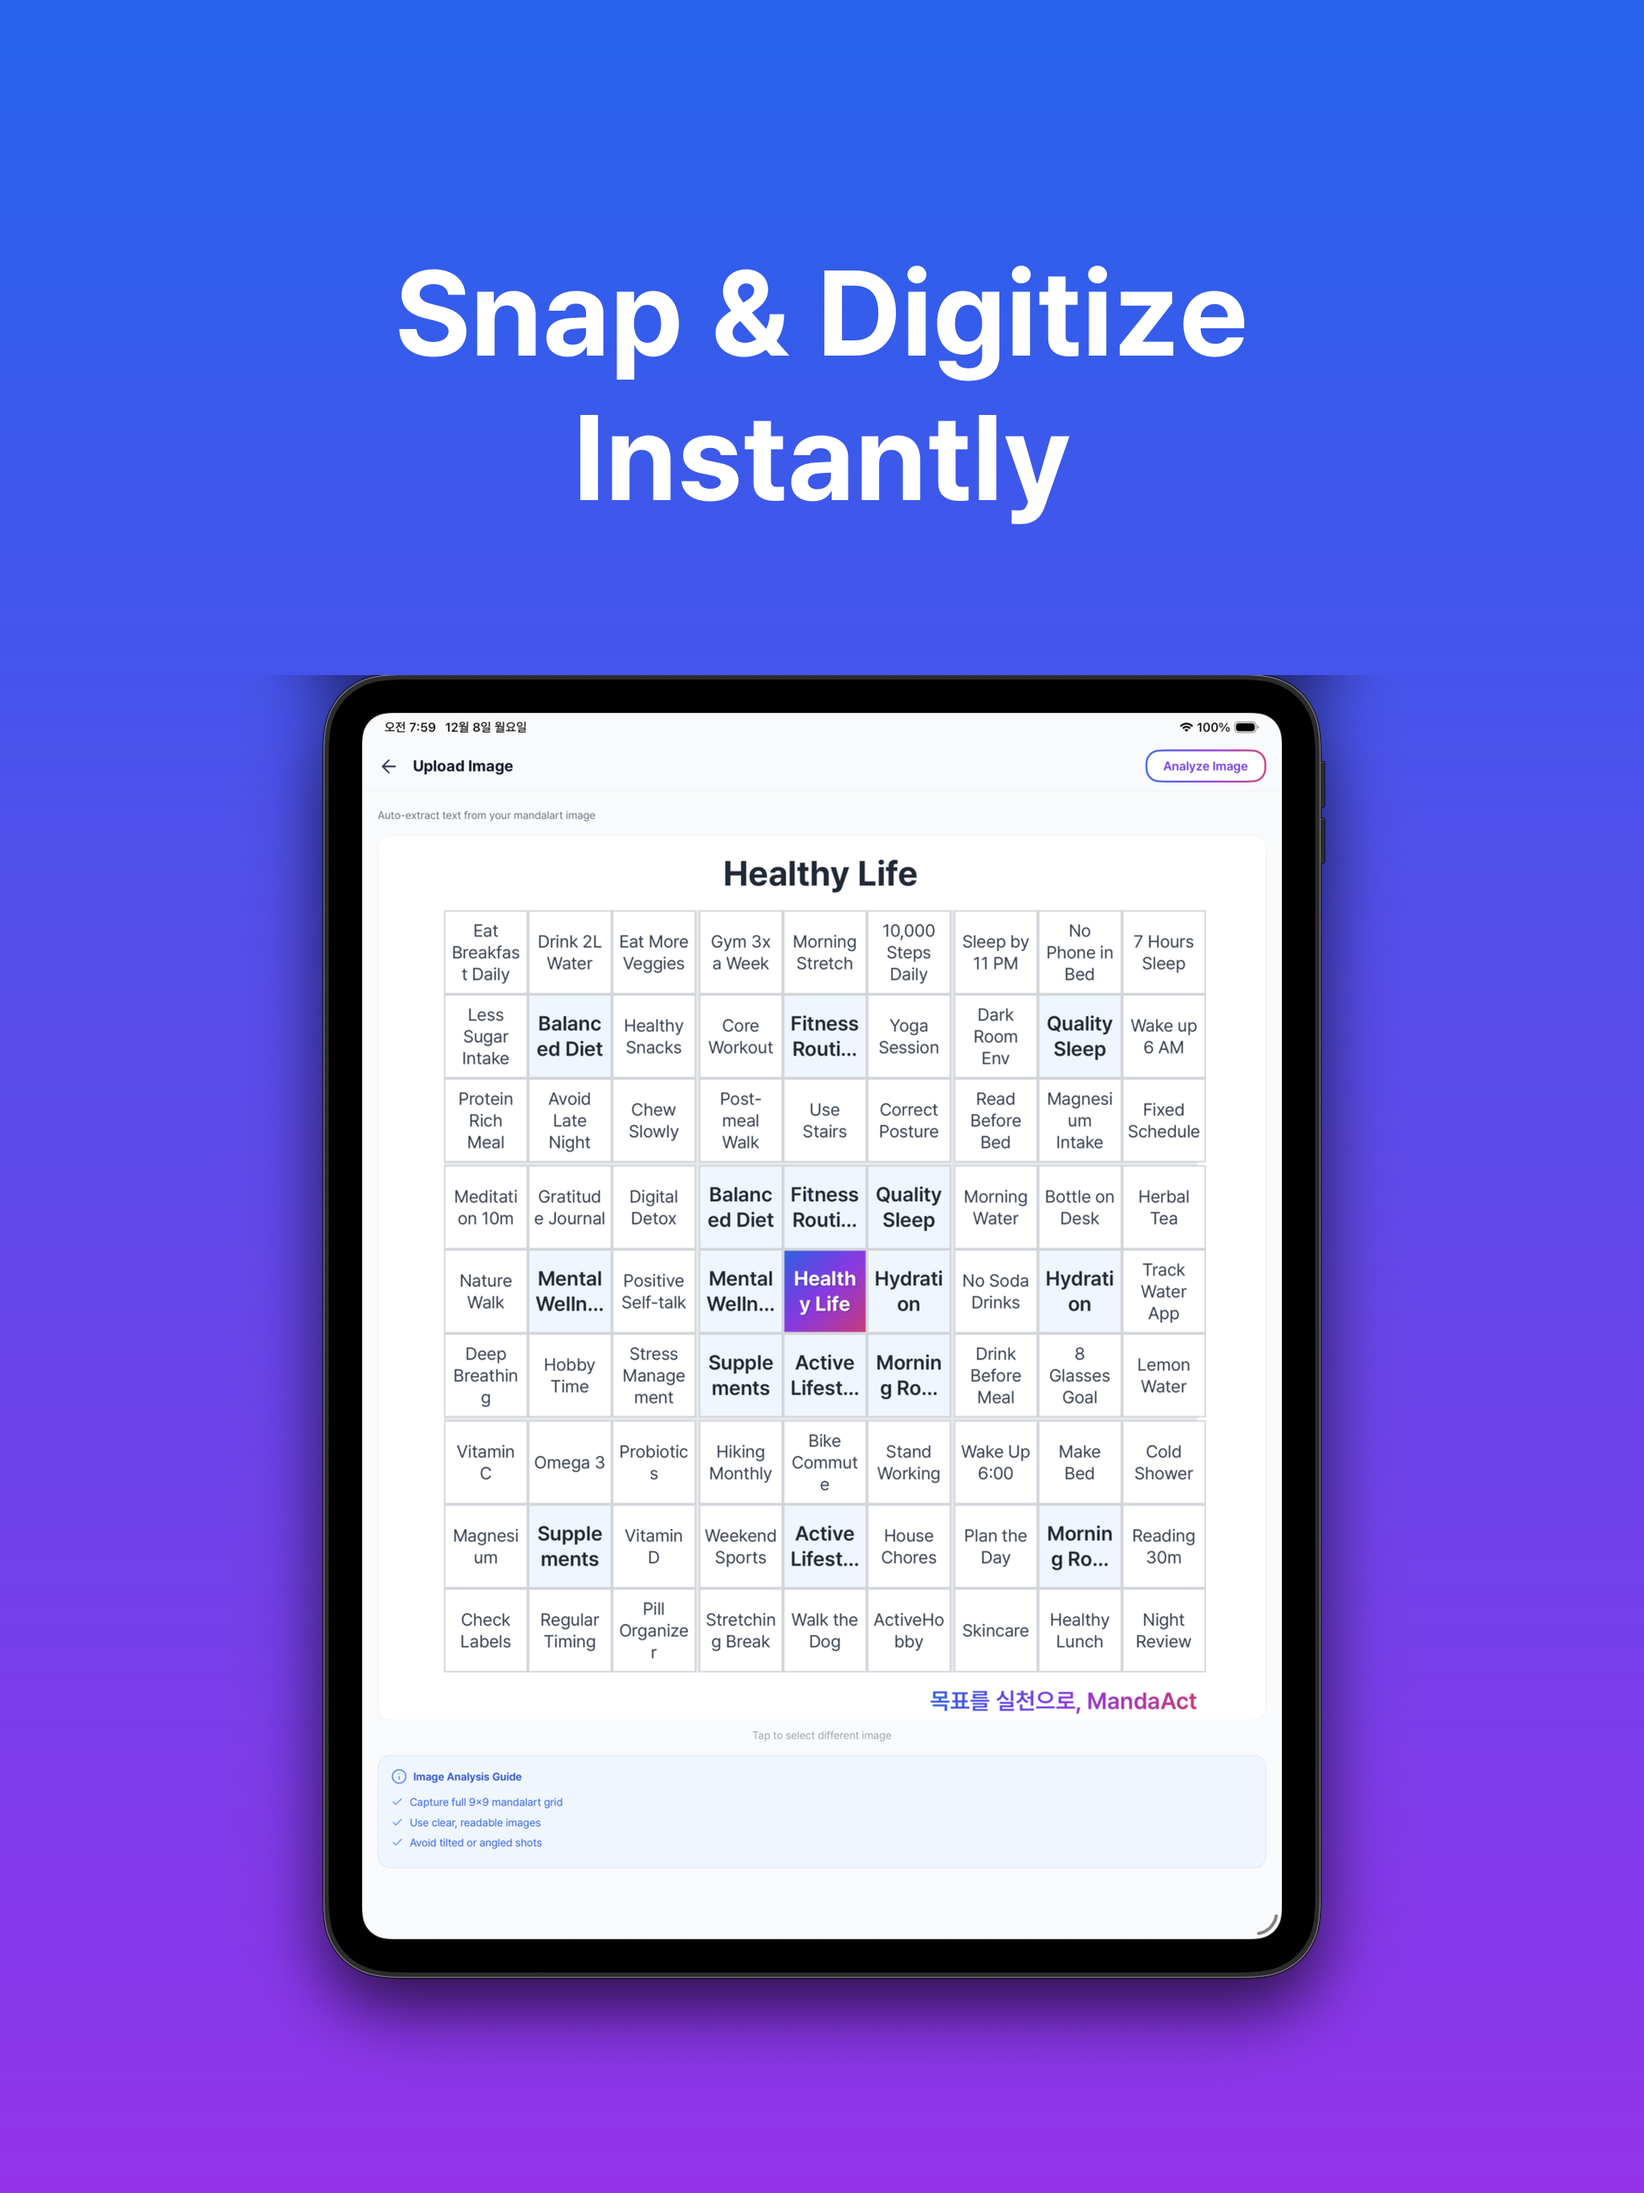
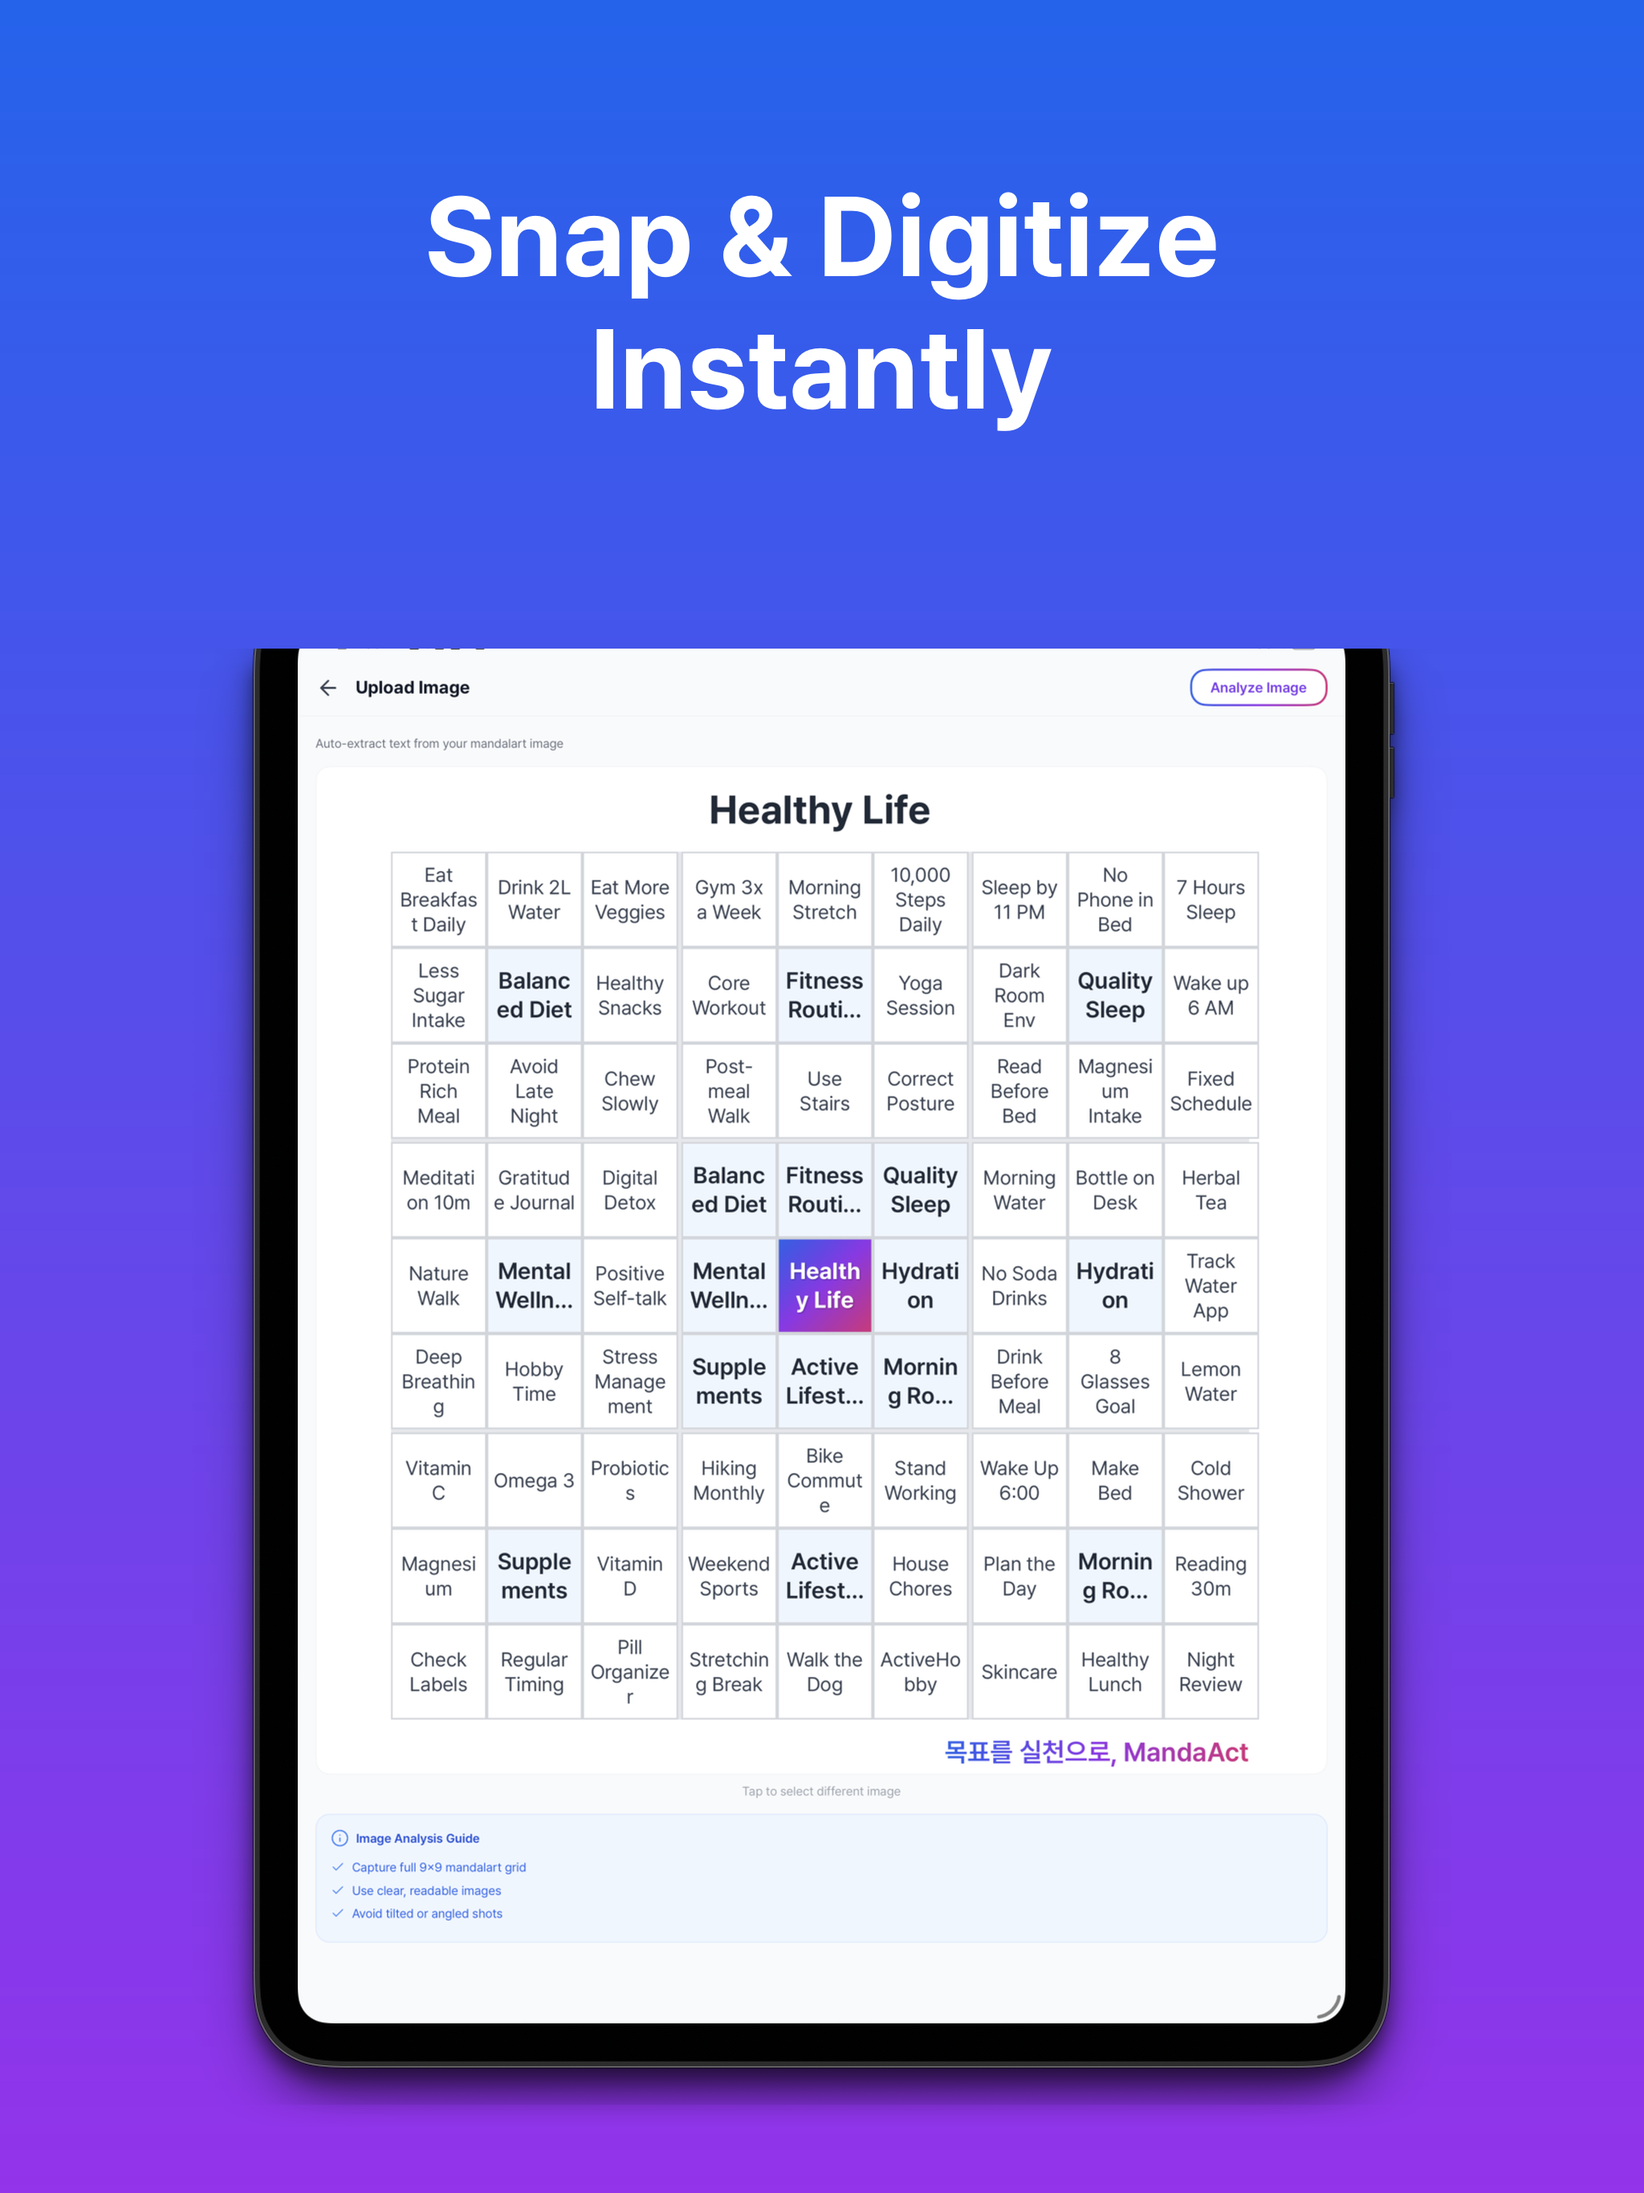
feat(marketing): improve screenshot readability

Changed region(s): [[0.125, 0.28, 0.875, 0.9645], [0.2188, 0.0622, 0.75, 0.2489]]

diff --git a/docs/marketing/generate_screenshots.py b/docs/marketing/generate_screenshots.py
@@ -13,7 +13,7 @@ Design Philosophy:
 ================================================================================
 """
 
-from PIL import Image, ImageDraw, ImageFont
+from PIL import Image, ImageDraw, ImageFilter, ImageFont
 import os
 
 # --- Configuration ---
@@ -23,8 +23,10 @@ ASSETS_DIR = os.path.join(BASE_DIR, "assets")
 RAW_DIR = os.path.join(ASSETS_DIR, "raw")
 FINAL_DIR = os.path.join(ASSETS_DIR, "final")
 
-# Font Path
-FONT_BOLD = "/Users/jhsy/mandaact/apps/mobile/assets/fonts/Pretendard-Bold.otf"
+# Font Path (repo-relative)
+FONT_BOLD = os.path.normpath(
+    os.path.join(BASE_DIR, "..", "..", "apps", "mobile", "assets", "fonts", "Pretendard-Bold.otf")
+)
 
 # Colors
 GRADIENT_START = (37, 99, 235)  # #2563eb (Blue)
@@ -36,22 +38,25 @@ DEVICES = {
     "iphone": {
         "width": 1284,             # Compatible with 6.5"/6.7" Pro Max slots
         "height": 2778,
-        "screenshot_scale": 0.88,  # Slightly smaller for premium balance
-        "bottom_margin": 140,      # More space at the bottom 
-        "title_step_y": 280,       # Start title higher
-        "title_size": 130,
-        "line_spacing": 150,
+        "screenshot_scale": 0.95,  # Larger for readability
+        "bottom_margin": 90,       # More room for UI
+        "title_step_y": 190,       # Reduce title block height
+        "title_size": 120,
+        "line_spacing": 138,
         "corner_radius": 80,
+        # Optional crop to enlarge content area (ratios of the raw screenshot)
+        "content_crop": {"top": 0.06, "bottom": 0.08, "left": 0.00, "right": 0.00},
     },
     "ipad": {
         "width": 2048,             # Compatible with 12.9" Pro slots
         "height": 2732,
-        "screenshot_scale": 0.72,
-        "bottom_margin": 120,
-        "title_step_y": 300,
-        "title_size": 150,
-        "line_spacing": 180,
+        "screenshot_scale": 0.82,  # Larger for readability
+        "bottom_margin": 110,
+        "title_step_y": 210,
+        "title_size": 140,
+        "line_spacing": 165,
         "corner_radius": 60,
+        "content_crop": {"top": 0.04, "bottom": 0.06, "left": 0.00, "right": 0.00},
     }
 }
 
@@ -92,6 +97,34 @@ def apply_rounded_corners(img, radius):
     output = Image.new('RGBA', img.size, (0, 0, 0, 0))
     output.paste(img, (0, 0), mask)
     return output
+
+def apply_content_crop(img, crop):
+    """Crop out UI chrome (status/tab bars) to enlarge the meaningful area."""
+    if not crop:
+        return img
+    w, h = img.size
+    left = int(w * crop.get("left", 0))
+    right = int(w * (1 - crop.get("right", 0)))
+    top = int(h * crop.get("top", 0))
+    bottom = int(h * (1 - crop.get("bottom", 0)))
+    if right <= left or bottom <= top:
+        return img
+    return img.crop((left, top, right, bottom))
+
+def add_shadow(card, blur=18, opacity=110, offset=(0, 16)):
+    """Create a soft shadow for an RGBA image with transparency."""
+    shadow = Image.new("RGBA", (card.width + blur * 4, card.height + blur * 4), (0, 0, 0, 0))
+    alpha = card.split()[-1]
+    shadow_alpha = Image.new("L", alpha.size, 0)
+    shadow_alpha.paste(alpha, (0, 0))
+    shadow_layer = Image.new("RGBA", alpha.size, (0, 0, 0, opacity))
+    shadow_layer.putalpha(shadow_alpha)
+    shadow.paste(shadow_layer, (blur * 2, blur * 2))
+    shadow = shadow.filter(ImageFilter.GaussianBlur(radius=blur))
+    result = Image.new("RGBA", shadow.size, (0, 0, 0, 0))
+    result.paste(shadow, offset, shadow)
+    result.paste(card, (blur * 2, blur * 2), card)
+    return result
 
 # --- Generator ---
 
@@ -137,6 +170,9 @@ def generate_screenshot(lang, device_key):
         bbox = ss.getbbox()
         if bbox:
             ss = ss.crop(bbox)
+
+        # Crop UI chrome to increase legibility (optional, per device)
+        ss = apply_content_crop(ss, device.get("content_crop"))
         
         # Scale
         target_w = int(device["width"] * device["screenshot_scale"])
@@ -146,13 +182,18 @@ def generate_screenshot(lang, device_key):
         
         # Apply Rounded Corners
         ss = apply_rounded_corners(ss, device["corner_radius"])
+
+        # Add subtle shadow for separation from gradient background
+        ss_with_shadow = add_shadow(ss, blur=18 if device_key == "iphone" else 14, opacity=120)
         
         # Position (Centered horizontally, specific bottom margin)
         ss_x = (device["width"] - target_w) // 2
         ss_y = device["height"] - target_h - device["bottom_margin"]
         
         # Paste onto background
-        canvas.paste(ss, (ss_x, ss_y), ss)
+        shadow_x = ss_x - (ss_with_shadow.width - ss.width) // 2
+        shadow_y = ss_y - (ss_with_shadow.height - ss.height) // 2
+        canvas.paste(ss_with_shadow, (shadow_x, shadow_y), ss_with_shadow)
         
         # 4. Save Final Image
         out_path = os.path.join(output_dir, item["out_filename"])

diff --git a/docs/marketing/APP_STORE_SCREENSHOTS.md b/docs/marketing/APP_STORE_SCREENSHOTS.md
@@ -17,6 +17,35 @@
 3.  **Code Disable (Optional)**: Temporarily comment out `<BannerAd />` in `HomeScreen.tsx` if needed.
 
 ---
+
+## 0.1 2025 트렌드/베스트 프랙티스(가독성 중심)
+
+스크린샷은 “세련됨”보다 먼저 **가독성**이 확보되어야 전환이 나옵니다. 특히 Apple 가이드 상 **첫 1~3장이 검색 결과에 노출**될 수 있으므로, 첫 장부터 “이 앱이 뭔지/왜 필요한지”가 5초 내 전달되어야 합니다.
+
+참고:
+- Apple Product Page: https://developer.apple.com/app-store/product-page/
+- SplitMetrics(ASO): https://splitmetrics.com/blog/app-store-screenshots/
+
+핵심 원칙:
+- **한 장 = 한 메시지**: 각 이미지에서 하나의 메인 베네핏만 강조
+- **UI 확대**: 상태바/탭바 등 “핵심이 아닌 영역” 비중을 줄이고, 핵심 콘텐츠를 크롭/확대
+- **스토리 구성**: 가치(왜) → 실행(어떻게) → 차별점 → 보상/동기 → 인사이트
+- **현지화**: 언어별 카피 길이에 따라 템플릿이 깨지지 않도록 레이아웃/줄바꿈을 템플릿화
+- **과한 합성 지양**: 앱 UI 캡처 기반(사람이 기기를 들고 있는 사진 등은 피하기)
+
+---
+
+## 0.2 현재 스크린샷 문제(가독성)
+
+- UI가 상대적으로 작게 보여 “무엇을 하는 앱인지”가 한눈에 안 들어옴
+- 일부 raw 스크린샷은 해상도가 낮아, 확대 시 선명도가 떨어질 수 있음(가독성 상한선)
+
+개선 방향(우선순위):
+1) **템플릿에서 UI를 더 크게**(여백/타이틀 영역 최적화)
+2) **핵심 영역 크롭/줌**(상/하단 바 비중 축소)
+3) (권장) App Store 기준 해상도로 raw 재캡처 후 재생성
+
+---
 ## 1. Storytelling Strategy (The "User Journey" Flow)
 
 We will use a **5-Step Narrative** that guides the user from their "Big Goal" to "Daily Action" and finally "Achievement".
